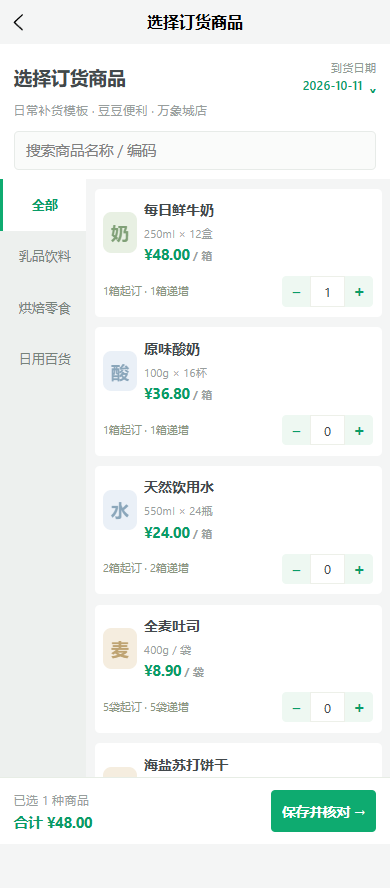
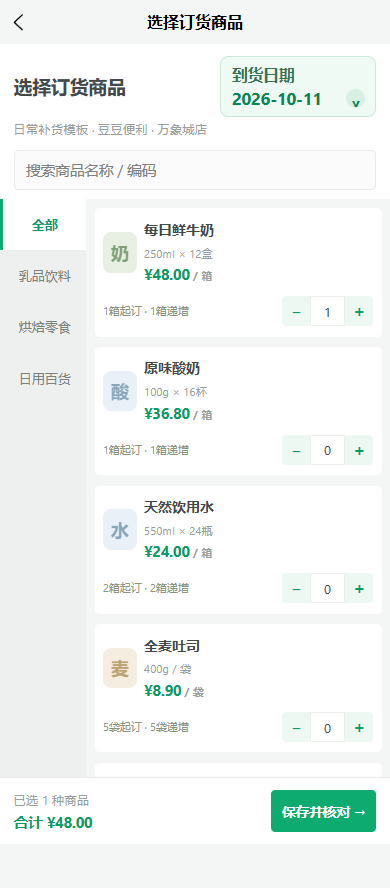
style: enlarge arrival date text and mobile tap target

diff --git a/dist/build/mp-weixin/pages/order-products/index.js b/dist/build/mp-weixin/pages/order-products/index.js
@@ -1,1 +1,1 @@
-"use strict";const e=require("../../common/vendor.js"),a=require("../../services/api.js"),t=require("../../core/validation.js");Math||u();const u=()=>"../../components/ProductMark.js",l={__name:"index",setup(u){const l=e.computed(()=>{var e;return(null==(e=a.client.getSession())?void 0:e.user)||{}}),n=e.ref({}),r=e.ref(""),v=e.ref([]),s=e.reactive({}),o=e.ref(""),i=e.ref(""),c=e.ref("全部"),d=e.ref(!1),f=e.ref(!1),p=e.ref(""),m=e.ref(0),k=t.localDate(),g=e.ref(k);let y=a.newKey(),h="",$=!1;const w=()=>`order-draft:${l.value.storeId}`,D=e.computed(()=>["全部",...new Set(v.value.map(e=>e.category))]),I=e.computed(()=>v.value.filter(e=>("全部"===c.value||c.value===e.category)&&`${e.name}${e.sku}`.includes(i.value.trim()))),q=e.computed(()=>v.value.filter(e=>Number(s[e.sku])>0).map(e=>({...e,quantity:Number(s[e.sku])}))),b=e.computed(()=>q.value.reduce((e,a)=>e+a.price*a.quantity,0));function x(e){try{g.value=t.arrivalDateInput(e.detail.value,t.localDate())}catch(u){a.report(u)}}function j(e,a){const t=Number(s[e.sku])||0;s[e.sku]=String(Math.max(0,0===t&&a>0?e.min:t+a*e.step))}async function S(){if(a.guard()){f.value=!0,p.value="";try{t.assert(r.value,"请返回上一页选择订货模板");const e=`/order-templates/${encodeURIComponent(r.value)}`,u=await Promise.all([a.api.get(e),a.api.get(e+"/products")]);n.value=u[0],v.value=u[1],function(){var e,u;const l=a.storage.get(w()),n=(null==(e=null==l?void 0:l.templates)?void 0:e[r.value])||("TPL-DAILY"===r.value?l:null);$=!0;for(const a of v.value){const e=null==(u=null==n?void 0:n.counts)?void 0:u[a.sku];s[a.sku]=null==e||""===e?"0":String(e)}o.value=(null==n?void 0:n.remark)||"";try{g.value=t.arrivalDateInput(null==n?void 0:n.arrivalDate,k)}catch{g.value=k}$=!1}()}catch(e){v.value=[],p.value=e.message}finally{f.value=!1}}}async function N(){if(!(d.value||f.value||p.value))try{t.arrivalDateInput(g.value);for(const e of v.value){const a=s[e.sku];if(void 0!==a&&""!==a){const u=t.quantity(a,"订货数量",!0);u&&t.assert(u>=e.min&&u%e.step===0,`${e.name}至少${e.min}${e.unit}，按${e.step}${e.unit}递增`)}}const u=q.value.map(e=>({sku:e.sku,quantity:e.quantity}));t.linesInput(u),d.value=!0;const l=JSON.stringify({templateId:r.value,arrivalDate:g.value,lines:u,remark:o.value});h!==l&&(y=a.newKey(),h=l);const n=await a.api.post("/orders",JSON.parse(l),y);$=!0,Object.keys(s).forEach(e=>delete s[e]),o.value="";const i=a.storage.get(w())||{};delete i.counts,delete i.remark,i.templates&&delete i.templates[r.value],a.storage.set(w(),i),$=!1,e.index.redirectTo({url:`/pages/detail/index?kind=orders&id=${n.id}`})}catch(u){a.report(u)}finally{d.value=!1}}return e.watch([c,i],async()=>{m.value=1,await e.nextTick$1(),m.value=0}),e.watch([s,o,g],()=>{if($||!a.client.getSession()||!r.value)return;const e=a.storage.get(w())||{};e.templates={...e.templates,[r.value]:{counts:{...s},remark:o.value,arrivalDate:g.value}},a.storage.set(w(),e)},{deep:!0,flush:"sync"}),e.onLoad((e={})=>{a.guard()&&(r.value=e.templateId||"",S())}),(a,u)=>e.e({a:e.t(g.value),b:g.value,c:e.unref(k),d:d.value,e:e.o(x,"0a"),f:e.t(n.value.name),g:e.t(l.value.storeName),h:i.value,i:e.o(e=>i.value=e.detail.value,"43"),j:p.value},p.value?{k:e.t(p.value),l:e.o(S,"4d")}:{},{m:f.value},(f.value,{}),{n:!f.value&&!p.value},f.value||p.value?{}:e.e({o:e.f(D.value,(a,t,u)=>({a:e.t(a),b:a,c:e.n({active:c.value===a}),d:e.o(e=>c.value=a,a)})),p:e.f(I.value,(a,u,l)=>({a:"dff78fdf-0-"+l,b:e.p({product:a}),c:e.t(a.name),d:e.t(a.spec),e:e.t(e.unref(t.money)(a.price)),f:e.t(a.unit),g:e.t(a.min),h:e.t(a.unit),i:e.t(a.step),j:e.t(a.unit),k:e.o(e=>j(a,-1),a.sku),l:e.o(e=>function(e){""!==s[e.sku]&&void 0!==s[e.sku]||(s[e.sku]="0")}(a),a.sku),m:s[a.sku],n:e.o(e=>s[a.sku]=e.detail.value,a.sku),o:e.o(e=>j(a,1),a.sku),p:a.sku})),q:d.value,r:d.value,s:d.value,t:!I.value.length},(I.value.length,{}),{v:d.value,w:o.value,x:e.o(e=>o.value=e.detail.value,"db"),y:m.value}),{z:e.t(q.value.length),A:e.t(e.unref(t.money)(b.value)),B:d.value,C:d.value||f.value||!!p.value||!q.value.length,D:e.o(N,"19")})}},n=e._export_sfc(l,[["__scopeId","data-v-dff78fdf"]]);wx.createPage(n);
+"use strict";const e=require("../../common/vendor.js"),a=require("../../services/api.js"),t=require("../../core/validation.js");Math||u();const u=()=>"../../components/ProductMark.js",l={__name:"index",setup(u){const l=e.computed(()=>{var e;return(null==(e=a.client.getSession())?void 0:e.user)||{}}),n=e.ref({}),r=e.ref(""),v=e.ref([]),s=e.reactive({}),o=e.ref(""),i=e.ref(""),c=e.ref("全部"),d=e.ref(!1),p=e.ref(!1),f=e.ref(""),m=e.ref(0),k=t.localDate(),g=e.ref(k);let y=a.newKey(),h="",$=!1;const w=()=>`order-draft:${l.value.storeId}`,D=e.computed(()=>["全部",...new Set(v.value.map(e=>e.category))]),I=e.computed(()=>v.value.filter(e=>("全部"===c.value||c.value===e.category)&&`${e.name}${e.sku}`.includes(i.value.trim()))),q=e.computed(()=>v.value.filter(e=>Number(s[e.sku])>0).map(e=>({...e,quantity:Number(s[e.sku])}))),b=e.computed(()=>q.value.reduce((e,a)=>e+a.price*a.quantity,0));function x(e){try{g.value=t.arrivalDateInput(e.detail.value,t.localDate())}catch(u){a.report(u)}}function j(e,a){const t=Number(s[e.sku])||0;s[e.sku]=String(Math.max(0,0===t&&a>0?e.min:t+a*e.step))}async function S(){if(a.guard()){p.value=!0,f.value="";try{t.assert(r.value,"请返回上一页选择订货模板");const e=`/order-templates/${encodeURIComponent(r.value)}`,u=await Promise.all([a.api.get(e),a.api.get(e+"/products")]);n.value=u[0],v.value=u[1],function(){var e,u;const l=a.storage.get(w()),n=(null==(e=null==l?void 0:l.templates)?void 0:e[r.value])||("TPL-DAILY"===r.value?l:null);$=!0;for(const a of v.value){const e=null==(u=null==n?void 0:n.counts)?void 0:u[a.sku];s[a.sku]=null==e||""===e?"0":String(e)}o.value=(null==n?void 0:n.remark)||"";try{g.value=t.arrivalDateInput(null==n?void 0:n.arrivalDate,k)}catch{g.value=k}$=!1}()}catch(e){v.value=[],f.value=e.message}finally{p.value=!1}}}async function N(){if(!(d.value||p.value||f.value))try{t.arrivalDateInput(g.value);for(const e of v.value){const a=s[e.sku];if(void 0!==a&&""!==a){const u=t.quantity(a,"订货数量",!0);u&&t.assert(u>=e.min&&u%e.step===0,`${e.name}至少${e.min}${e.unit}，按${e.step}${e.unit}递增`)}}const u=q.value.map(e=>({sku:e.sku,quantity:e.quantity}));t.linesInput(u),d.value=!0;const l=JSON.stringify({templateId:r.value,arrivalDate:g.value,lines:u,remark:o.value});h!==l&&(y=a.newKey(),h=l);const n=await a.api.post("/orders",JSON.parse(l),y);$=!0,Object.keys(s).forEach(e=>delete s[e]),o.value="";const i=a.storage.get(w())||{};delete i.counts,delete i.remark,i.templates&&delete i.templates[r.value],a.storage.set(w(),i),$=!1,e.index.redirectTo({url:`/pages/detail/index?kind=orders&id=${n.id}`})}catch(u){a.report(u)}finally{d.value=!1}}return e.watch([c,i],async()=>{m.value=1,await e.nextTick$1(),m.value=0}),e.watch([s,o,g],()=>{if($||!a.client.getSession()||!r.value)return;const e=a.storage.get(w())||{};e.templates={...e.templates,[r.value]:{counts:{...s},remark:o.value,arrivalDate:g.value}},a.storage.set(w(),e)},{deep:!0,flush:"sync"}),e.onLoad((e={})=>{a.guard()&&(r.value=e.templateId||"",S())}),(a,u)=>e.e({a:e.t(g.value),b:g.value,c:e.unref(k),d:d.value,e:e.o(x,"0a"),f:e.t(n.value.name),g:e.t(l.value.storeName),h:i.value,i:e.o(e=>i.value=e.detail.value,"8f"),j:f.value},f.value?{k:e.t(f.value),l:e.o(S,"b8")}:{},{m:p.value},(p.value,{}),{n:!p.value&&!f.value},p.value||f.value?{}:e.e({o:e.f(D.value,(a,t,u)=>({a:e.t(a),b:a,c:e.n({active:c.value===a}),d:e.o(e=>c.value=a,a)})),p:e.f(I.value,(a,u,l)=>({a:"4f5480fd-0-"+l,b:e.p({product:a}),c:e.t(a.name),d:e.t(a.spec),e:e.t(e.unref(t.money)(a.price)),f:e.t(a.unit),g:e.t(a.min),h:e.t(a.unit),i:e.t(a.step),j:e.t(a.unit),k:e.o(e=>j(a,-1),a.sku),l:e.o(e=>function(e){""!==s[e.sku]&&void 0!==s[e.sku]||(s[e.sku]="0")}(a),a.sku),m:s[a.sku],n:e.o(e=>s[a.sku]=e.detail.value,a.sku),o:e.o(e=>j(a,1),a.sku),p:a.sku})),q:d.value,r:d.value,s:d.value,t:!I.value.length},(I.value.length,{}),{v:d.value,w:o.value,x:e.o(e=>o.value=e.detail.value,"dd"),y:m.value}),{z:e.t(q.value.length),A:e.t(e.unref(t.money)(b.value)),B:d.value,C:d.value||p.value||!!f.value||!q.value.length,D:e.o(N,"ac")})}},n=e._export_sfc(l,[["__scopeId","data-v-4f5480fd"]]);wx.createPage(n);

diff --git a/src/pages/order-products/index.vue b/src/pages/order-products/index.vue
@@ -1,5 +1,5 @@
 <template><view class="product-page">
-  <view class="product-header"><view class="header-top"><view class="title">选择订货商品</view><picker class="arrival-picker" mode="date" :value="arrivalDate" :start="today" :disabled="busy" @change="chooseDate"><view class="arrival-label">到货日期</view><view class="arrival-value">{{arrivalDate}} <text>⌄</text></view></picker></view><view class="muted">{{template.name}} · {{user.storeName}}</view><input v-model="search" class="input search" placeholder="搜索商品名称 / 编码"/></view>
+  <view class="product-header"><view class="header-top"><view class="title">选择订货商品</view><picker class="arrival-picker" mode="date" :value="arrivalDate" :start="today" :disabled="busy" @change="chooseDate"><view class="arrival-control" hover-class="arrival-pressed"><view class="arrival-label">到货日期</view><view class="arrival-value">{{arrivalDate}} <text>⌄</text></view></view></picker></view><view class="muted">{{template.name}} · {{user.storeName}}</view><input v-model="search" class="input search" placeholder="搜索商品名称 / 编码"/></view>
   <view v-if="error" class="error" @tap="load">{{error}} · 点击重试</view><view v-if="loading" class="empty">商品加载中…</view>
   <view v-if="!loading&&!error" class="catalog">
     <scroll-view scroll-y class="category-rail"><view v-for="c in categories" :key="c" :class="['category-item',{active:category===c}]" @tap="category=c">{{c}}</view></scroll-view>
@@ -36,5 +36,5 @@ onLoad((options={})=>{if(!guard())return;templateId.value=options.templateId||''
 async function save(){if(busy.value||loading.value||error.value)return;try{arrivalDateInput(arrivalDate.value);for(const p of products.value){const value=counts[p.sku];if(value!==undefined&&value!==''){const n=quantity(value,'订货数量',true);if(n)assert(n>=p.min&&n%p.step===0,`${p.name}至少${p.min}${p.unit}，按${p.step}${p.unit}递增`)}}const lines=selected.value.map(p=>({sku:p.sku,quantity:p.quantity}));linesInput(lines);busy.value=true;const payload=JSON.stringify({templateId:templateId.value,arrivalDate:arrivalDate.value,lines,remark:remark.value});if(lastPayload!==payload){key=newKey();lastPayload=payload}const doc=await api.post('/orders',JSON.parse(payload),key);restoring=true;Object.keys(counts).forEach(k=>delete counts[k]);remark.value='';const drafts=storage.get(draftKey())||{};delete drafts.counts;delete drafts.remark;if(drafts.templates)delete drafts.templates[templateId.value];storage.set(draftKey(),drafts);restoring=false;uni.redirectTo({url:`/pages/detail/index?kind=orders&id=${doc.id}`})}catch(e){report(e)}finally{busy.value=false}}
 </script>
 <style scoped>
-.product-page{height:100vh;display:flex;flex-direction:column;padding-bottom:calc(160rpx + env(safe-area-inset-bottom));overflow:hidden}.product-header{padding:24rpx 26rpx 18rpx;background:white}.header-top{display:flex;align-items:center;justify-content:space-between;gap:12rpx}.header-top .title{font-size:36rpx;white-space:nowrap}.arrival-picker{flex-shrink:0;text-align:right;padding:4rpx 0 4rpx 12rpx}.arrival-label{font-size:22rpx;color:#919b96}.arrival-value{font-size:24rpx;color:#0a9c67;font-weight:600}.arrival-value text{margin-left:5rpx}.product-header .muted{display:block;margin-top:6rpx}.search{margin-top:20rpx;height:76rpx}.catalog{display:flex;flex:1;min-height:0;overflow:hidden}.category-rail{width:166rpx;flex-shrink:0;height:100%;background:#edf0ee}.category-item{padding:30rpx 14rpx;text-align:center;font-size:25rpx;color:#77827b;border-left:6rpx solid transparent;word-break:break-all}.category-item.active{color:#0a9c67;background:white;border-left-color:#0eab70;font-weight:600}.product-list{flex:1;min-width:0;width:0;height:100%;padding:18rpx 16rpx}.product-card{padding:20rpx 16rpx}.product-card .row{gap:14rpx}.product-card .product-name{font-size:27rpx}.product-card .muted{font-size:22rpx}.product-card .product-mark{width:65rpx;height:78rpx}.quantity-row{margin-top:20rpx;display:flex;flex-wrap:wrap;gap:12rpx;align-items:center;justify-content:space-between}.quantity-row .hint{font-size:21rpx}.stepper{display:flex;align-items:center;background:#eef8f2;border-radius:8rpx;overflow:hidden;margin-left:auto}.stepper button{width:55rpx;height:58rpx;padding:0;line-height:58rpx;background:transparent;color:#0a9c67;font-size:30rpx}.stepper input{width:66rpx;height:58rpx;text-align:center;font-size:25rpx;background:white;border:1rpx solid #edf0e9}.product-list .field-label{margin-top:0}.product-list .textarea{height:145rpx;min-height:145rpx;font-size:24rpx}.product-page .action-bar{padding:20rpx 26rpx calc(20rpx + env(safe-area-inset-bottom))}.product-page .action-bar button{padding:22rpx;font-size:26rpx}
+.product-page{height:100vh;display:flex;flex-direction:column;padding-bottom:calc(160rpx + env(safe-area-inset-bottom));overflow:hidden}.product-header{padding:24rpx 26rpx 18rpx;background:white}.header-top{display:flex;align-items:center;justify-content:space-between;gap:12rpx}.header-top .title{font-size:36rpx;white-space:nowrap}.arrival-picker{flex-shrink:0;width:300rpx}.arrival-control{min-height:52px;padding:12rpx 20rpx;border:2rpx solid #c9ead9;border-radius:16rpx;background:#effaf4;display:flex;flex-direction:column;justify-content:center;gap:4rpx}.arrival-pressed{background:#dbf3e5;border-color:#0eab70}.arrival-label{font-size:30rpx;font-weight:700;color:#327456;line-height:1.35}.arrival-value{font-size:32rpx;color:#078653;font-weight:750;line-height:1.4;display:flex;align-items:center;justify-content:space-between;white-space:nowrap}.arrival-value text{margin-left:10rpx;width:36rpx;height:36rpx;line-height:30rpx;text-align:center;border-radius:50%;background:#d8f0e3;font-size:30rpx;color:#078653}.product-header .muted{display:block;margin-top:6rpx}.search{margin-top:20rpx;height:76rpx}.catalog{display:flex;flex:1;min-height:0;overflow:hidden}.category-rail{width:166rpx;flex-shrink:0;height:100%;background:#edf0ee}.category-item{padding:30rpx 14rpx;text-align:center;font-size:25rpx;color:#77827b;border-left:6rpx solid transparent;word-break:break-all}.category-item.active{color:#0a9c67;background:white;border-left-color:#0eab70;font-weight:600}.product-list{flex:1;min-width:0;width:0;height:100%;padding:18rpx 16rpx}.product-card{padding:20rpx 16rpx}.product-card .row{gap:14rpx}.product-card .product-name{font-size:27rpx}.product-card .muted{font-size:22rpx}.product-card .product-mark{width:65rpx;height:78rpx}.quantity-row{margin-top:20rpx;display:flex;flex-wrap:wrap;gap:12rpx;align-items:center;justify-content:space-between}.quantity-row .hint{font-size:21rpx}.stepper{display:flex;align-items:center;background:#eef8f2;border-radius:8rpx;overflow:hidden;margin-left:auto}.stepper button{width:55rpx;height:58rpx;padding:0;line-height:58rpx;background:transparent;color:#0a9c67;font-size:30rpx}.stepper input{width:66rpx;height:58rpx;text-align:center;font-size:25rpx;background:white;border:1rpx solid #edf0e9}.product-list .field-label{margin-top:0}.product-list .textarea{height:145rpx;min-height:145rpx;font-size:24rpx}.product-page .action-bar{padding:20rpx 26rpx calc(20rpx + env(safe-area-inset-bottom))}.product-page .action-bar button{padding:22rpx;font-size:26rpx}
 </style>
